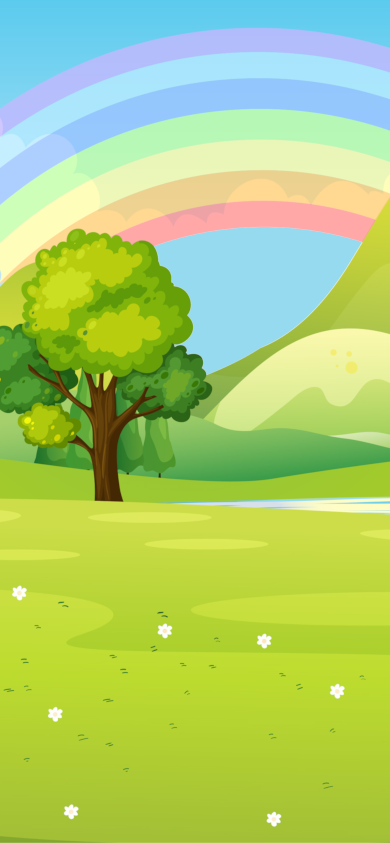
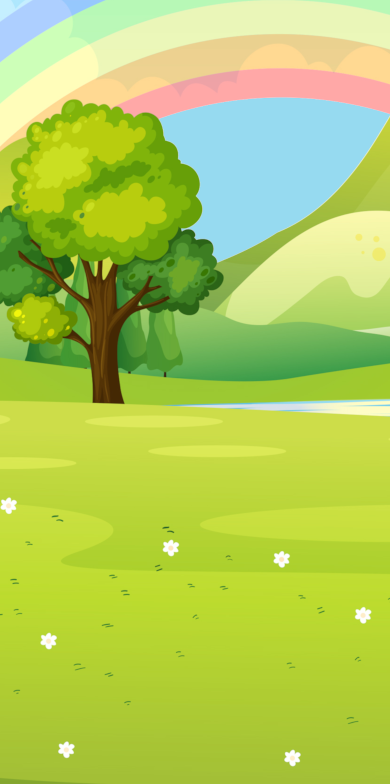
removed unused elements

diff --git a/src/components/FloofProfile/FloofProfile.jsx b/src/components/FloofProfile/FloofProfile.jsx
@@ -114,13 +114,6 @@ export default function FloofProfile() {
                 </center>
                 <div className="buttons">
                     <Button
-                        startIcon={<ArrowBackIcon />}
-                        variant="contained"
-                        onClick={backButton}
-                        sx={{ m: 1 }}
-                    >
-                    </Button>
-                    <Button
                         variant="contained"
                         onClick={rename}
                         sx={{ m: 1 }}

diff --git a/src/components/FlockPage/FlockPage.css b/src/components/FlockPage/FlockPage.css
@@ -1,5 +1,5 @@
 .flockPage {
-    background-image: url('../../../public/images/backgrounds/flock-background2.png');
+    background-image: url('../../../public/images/backgrounds/flock-background.png');
     top: 0;
     left: 0;
     position:fixed;
